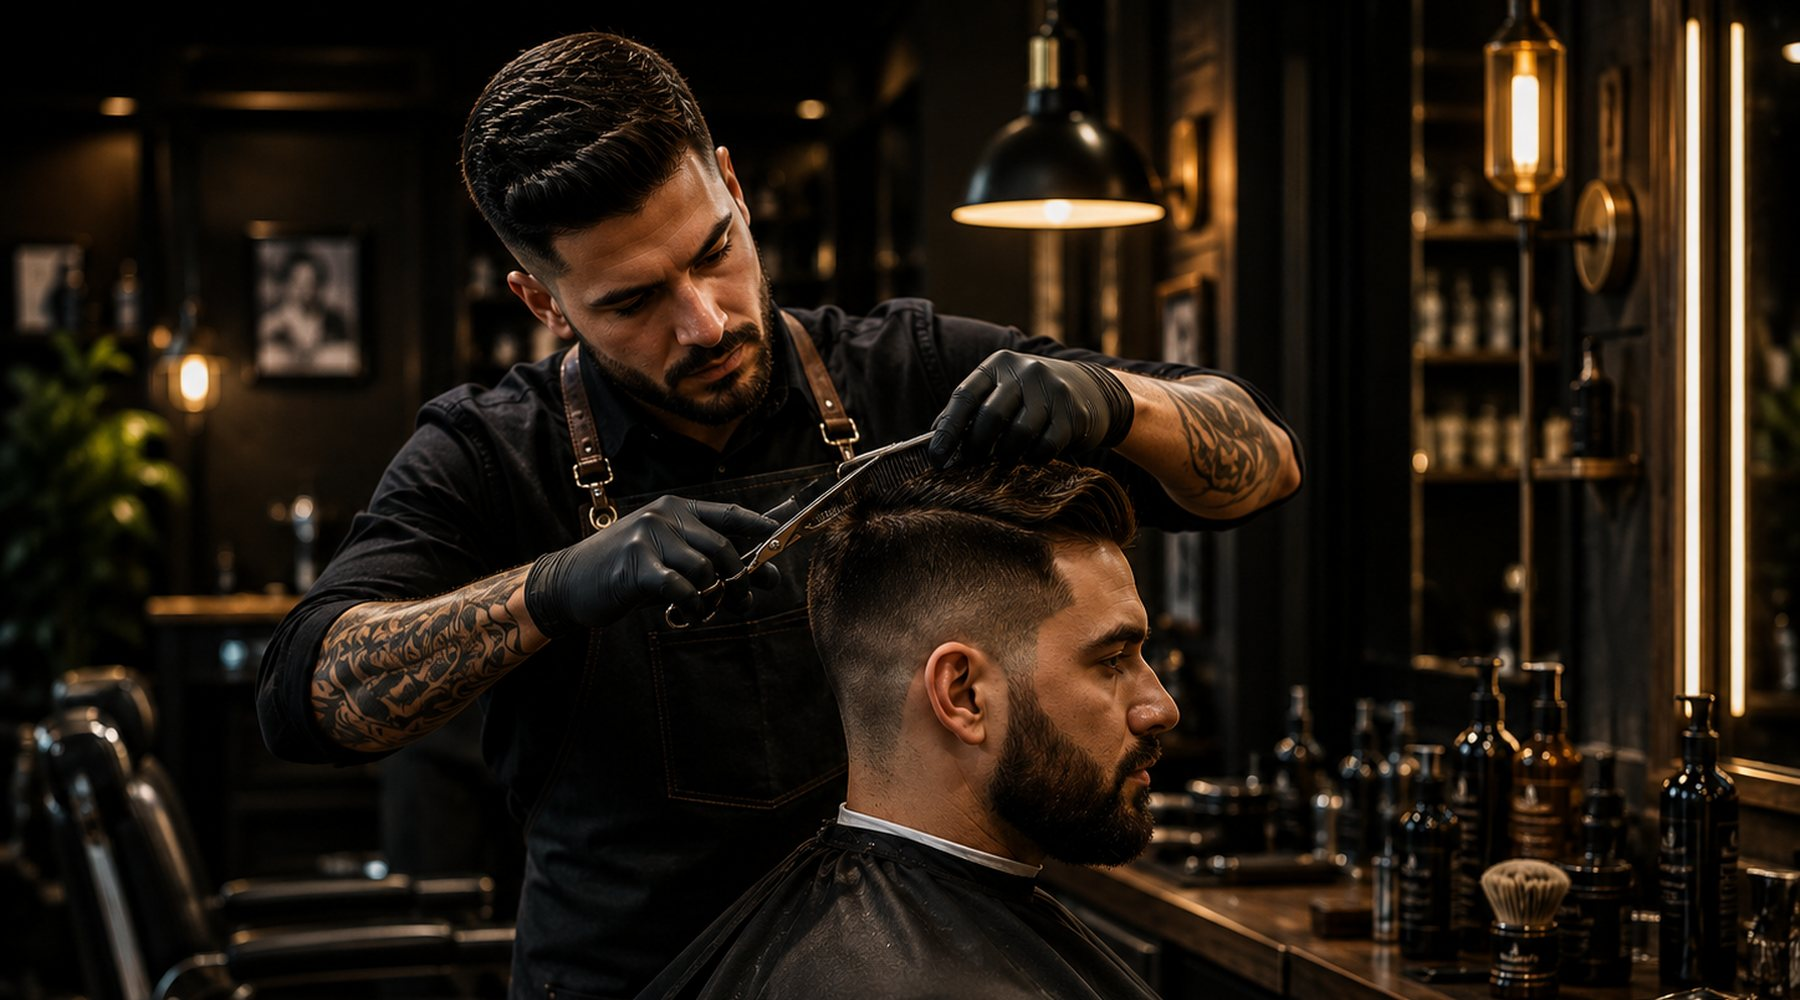
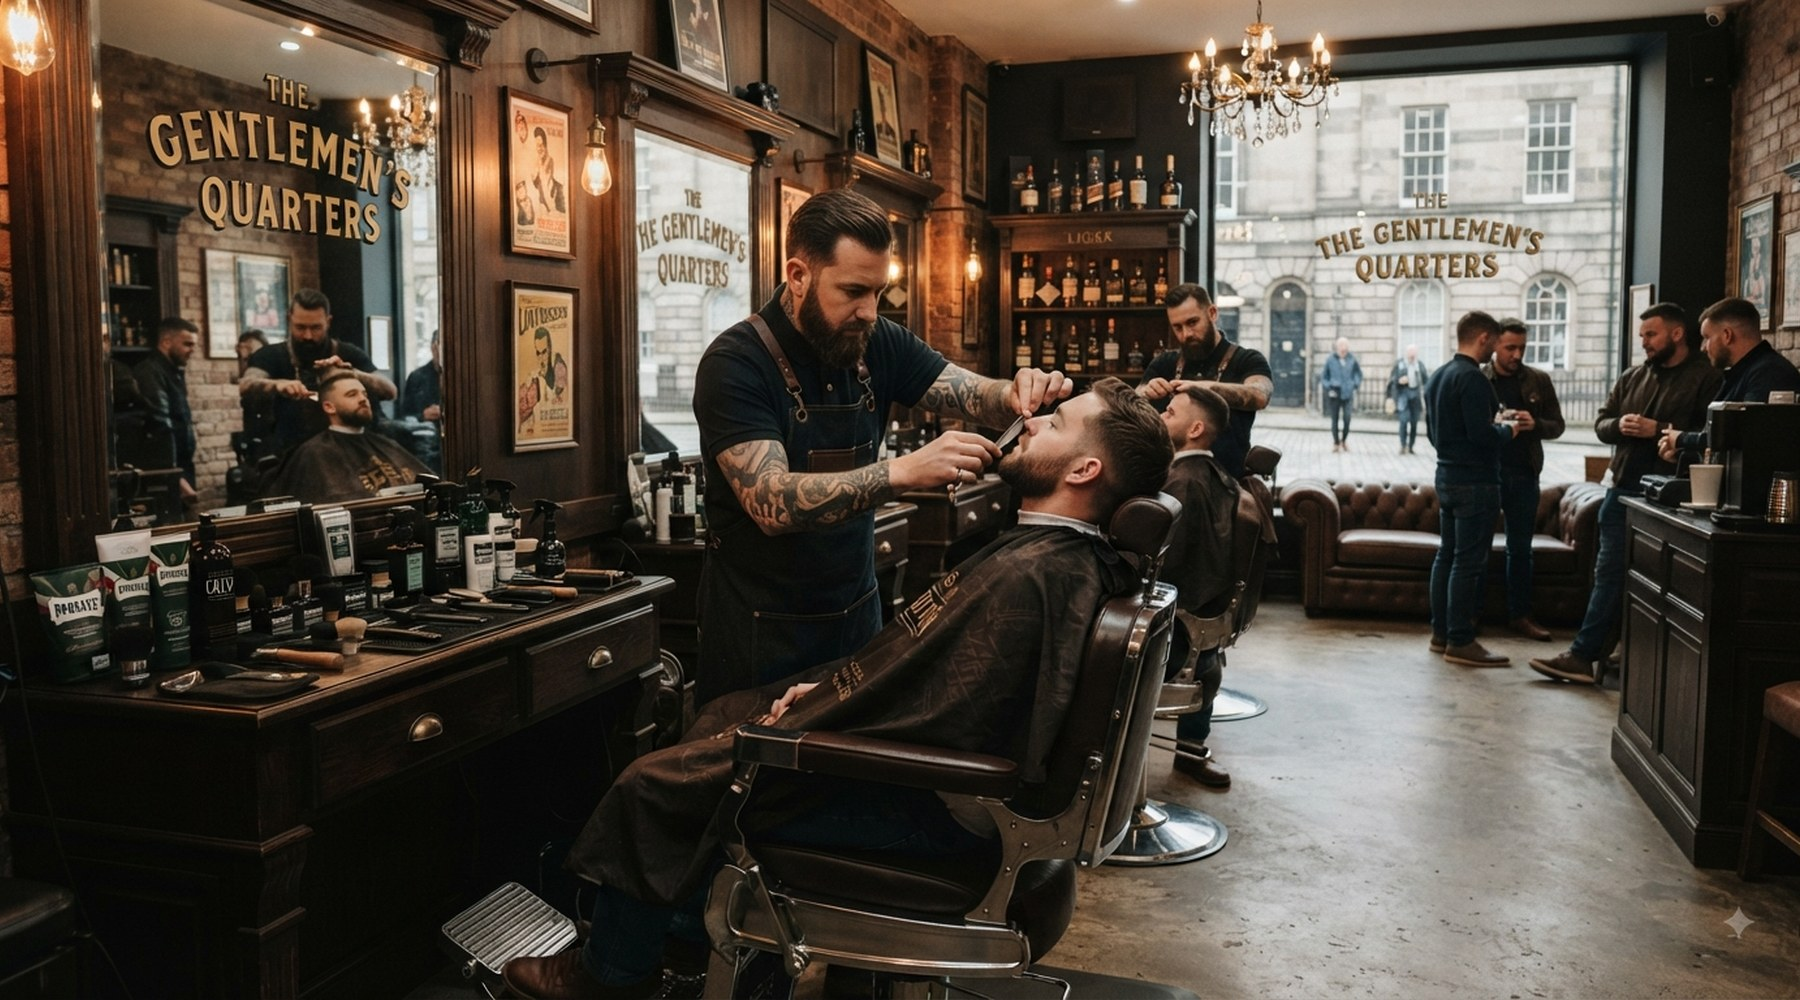
Cambia la fotografía de la plantilla de barbería
Nueva foto del local completo: se ve el salón entero, los sillones, la
clientela y el escaparate, en vez del plano corto anterior. Cuenta mucho
mejor el ambiente que compra el cliente.

- Recortes propios para la franja del catálogo (1600x720) y para el hero
  de la demo (1800x1000).
- La demo pasa a llamarse "The Gentlemen's Quarters", el rótulo que se lee
  en la propia fotografía: antes la barra decía "Gentleman" y chocaba con
  el cartel del fondo.
- En pantallas estrechas el encuadre del hero se anclaba en la ventana;
  ahora se ancla en el barbero, que es el sujeto de la escena.

Claude-Session: https://claude.ai/code/session_01GH4UBwAk37e4FV2NGANpez

diff --git a/public/demos/barberia/index.html b/public/demos/barberia/index.html
@@ -3,7 +3,7 @@
 <head>
 <meta charset="UTF-8">
 <meta name="viewport" content="width=device-width, initial-scale=1.0">
-<title>Gentleman Barber Shop — Estilo que te define</title>
+<title>The Gentlemen's Quarters — Estilo que te define</title>
 <link href="https://fonts.googleapis.com/css2?family=Bebas+Neue&family=Inter:wght@400;500;600;700&display=swap" rel="stylesheet">
 <style>
 :root{
@@ -50,8 +50,9 @@ h1,h2,h3{font-family:'Bebas Neue',sans-serif;letter-spacing:0.02em;font-weight:4
 }
 .bh-hero .container{position:relative;z-index:1;}
 .bh-hero h1{text-shadow:0 4px 24px rgba(0,0,0,0.55);}
-@media(max-width:760px){
-  .bh-hero{background-position:center,center,62% 22%;}
+@media(max-width:900px){
+  /* En pantallas estrechas el recorte se iba a la ventana: se ancla al barbero. */
+  .bh-hero{background-position:center,center,38% 20%;}
 }
 .bh-hero-tag{font-size:12px;letter-spacing:0.2em;text-transform:uppercase;color:var(--gold);margin-bottom:16px;}
 .bh-hero h1{font-size:clamp(46px,7vw,84px);line-height:0.95;margin-bottom:20px;}
@@ -118,7 +119,7 @@ section{padding:80px 0;}
   <div class="bh-header-inner">
     <div class="bh-logo">
       <div class="bh-logo-mark">G</div>
-      <div class="bh-logo-text"><strong>GENTLEMAN</strong><span>BARBER SHOP</span></div>
+      <div class="bh-logo-text"><strong>GENTLEMEN'S</strong><span>QUARTERS</span></div>
     </div>
     <nav class="bh-nav">
       <a href="#inicio" class="active">Inicio</a>
@@ -219,7 +220,7 @@ section{padding:80px 0;}
   <div class="container">
     <div class="bh-logo" style="justify-content:center;display:flex;">
       <div class="bh-logo-mark">G</div>
-      <div class="bh-logo-text" style="text-align:left;"><strong>GENTLEMAN</strong><span>BARBER SHOP</span></div>
+      <div class="bh-logo-text" style="text-align:left;"><strong>GENTLEMEN'S</strong><span>QUARTERS</span></div>
     </div>
     <p>Calle Mayor 24, Madrid · +34 600 000 000 · © 2026 Gentleman Barber Shop</p>
     <p style="margin-top:6px;color:var(--gold);">Plantilla creada por Leuname Software</p>
